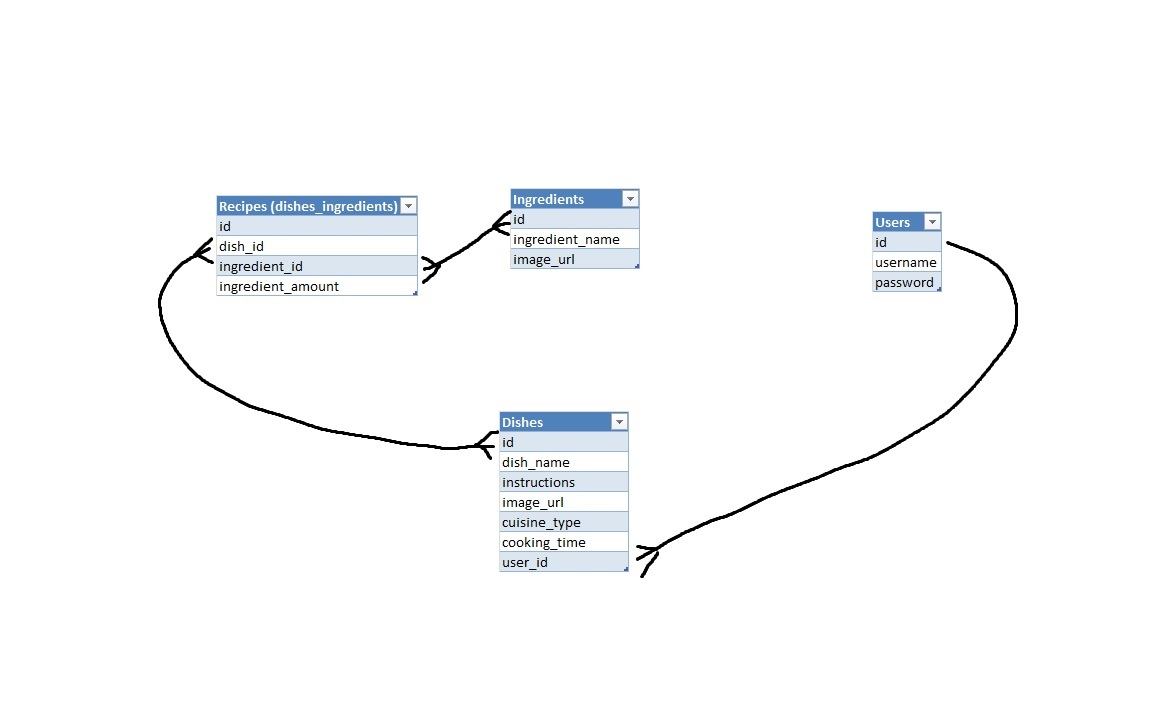
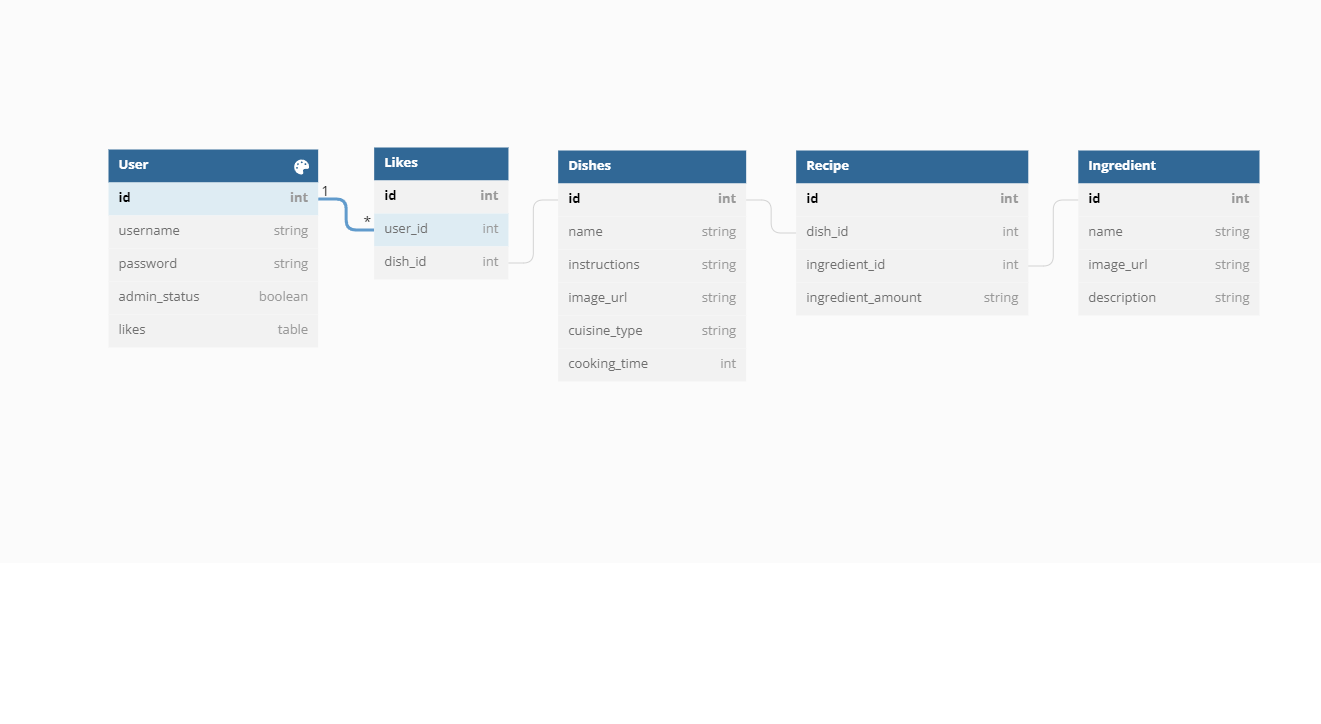
add search function, user admin status, and database update capability

diff --git a/templates/home.html b/templates/home.html
@@ -3,8 +3,16 @@
 
 <h1>Welcome to the Cooking App</h1>
 
-<a href="/dishes/all">View All Dishes</a>
-<a href="/ingredients/all">View All Ingredients</a>
+<a href="/dishes">View All Dishes</a>
+<a href="/ingredients">View All Ingredients</a>
 
+<form action="/dishes">
+    <input name="q" placeholder="Search Dishes" id="search-dish">
+    <button> Search </button>
+</form>
 
+<form action="/ingredients">
+    <input name="q" placeholder="Search Ingredients" id="search-ingredient">
+    <button> Search </button>
+</form>
 {% endblock %}

diff --git a/templates/users.html b/templates/users.html
@@ -1,0 +1,16 @@
+{% extends 'base.html' %}
+{% block content %}
+
+<h1>Users</h1>
+<ul>
+    {% for user in users %}
+    <li>
+        <form method="post" action="/users/promote/{{user.id}}">
+            {{user.username}} {{user.admin_status}}
+            <button>Promote</button>
+        </form>
+    </li>
+    {% endfor %}
+</ul>
+
+{% endblock %}

diff --git a/templates/base.html b/templates/base.html
@@ -14,8 +14,12 @@
     {% if not g.user %}
     <a href="/sign-up">Create Account</a>
     <a href="/login">Log In</a>
+
     {% else %}
     <a href="/my-recipes">Saved Recipes</a>
+    {% if g.user.admin_status %}
+    <a href="/users">Users</a>
+    {% endif %}
     <a href="/logout">Log out</a>
     {% endif %}
 

diff --git a/templates/ingredient.html b/templates/ingredient.html
@@ -2,7 +2,7 @@
 {% extends 'base.html' %}
 {% block content %}
 <h5>
-    <a href="/">Home</a> > <a href="/ingredients/all">Ingredient</a> > {{ingredient.name}}
+    <a href="/">Home</a> > <a href="/ingredients">Ingredient</a> > {{ingredient.name}}
 </h5>
 
 <h1>

diff --git a/templates/dish.html b/templates/dish.html
@@ -1,7 +1,7 @@
 {% extends 'base.html' %}
 {% block content %}
 <h5>
-    <a href="/">Home</a> > <a href="/dishes/all">Dish</a> > {{dish.name}}
+    <a href="/">Home</a> > <a href="/dishes">Dish</a> > {{dish.name}}
 </h5>
 <h1>
     {{dish.name}}

diff --git a/templates/all-dishes.html b/templates/all-dishes.html
@@ -3,7 +3,6 @@
 <ul>
     {% for dish in all_dishes %}
     <li>
-
         <h5>
             <a href="/dishes/{{dish.id}}">{{dish.name}}</a>
         </h5>

diff --git a/app.py b/app.py
@@ -43,7 +43,7 @@ def show_dish(id):
             .filter(Likes.user_id == g.user.id, Likes.dish_id == id)
             .one_or_none()
         )
-    # pdb.set_trace()
+
     return render_template(
         "dish.html",
         dish=dish,
@@ -52,11 +52,16 @@ def show_dish(id):
     )
 
 
-@app.route("/dishes/all")
+@app.route("/dishes")
 def show_all_dishes():
-    all_dishes = Dish.query.all()
+    search = request.args.get("q")
 
-    return render_template("all-dishes.html", all_dishes=all_dishes)
+    if not search:
+        dishes = Dish.query.all()
+    else:
+        dishes = Dish.query.filter(Dish.name.ilike(f"%{search}%")).all()
+
+    return render_template("all-dishes.html", all_dishes=dishes)
 
 
 @app.route("/ingredients/<int:id>")
@@ -64,17 +69,25 @@ def show_ingredient(id):
     ingredient = Ingredient.query.get_or_404(id)
 
     used_in = (
-        db.session.query(Dish).filter(Recipe.ingredient_id == 1).join(Recipe).all()
+        db.session.query(Dish).filter(Recipe.ingredient_id == id).join(Recipe).all()
     )
 
     return render_template("ingredient.html", ingredient=ingredient, used_in=used_in)
 
 
-@app.route("/ingredients/all")
+@app.route("/ingredients")
 def show_all_ingredients():
-    all_ingredients = Ingredient.query.all()
 
-    return render_template("all-ingredients.html", all_ingredients=all_ingredients)
+    search = request.args.get("q")
+
+    if not search:
+        ingredients = Ingredient.query.all()
+    else:
+        ingredients = Ingredient.query.filter(
+            Ingredient.name.ilike(f"%{search}%")
+        ).all()
+
+    return render_template("all-ingredients.html", all_ingredients=ingredients)
 
 
 @app.route("/sign-up", methods=["GET", "POST"])
@@ -199,3 +212,39 @@ def remove_recipe(id):
     db.session.commit()
 
     return redirect("/my-recipes")
+
+
+@app.route("/users")
+def view_users():
+
+    if not g.user.admin_status:
+        flash("Access unauthorized.", "danger")
+        return redirect("/")
+
+    users = User.query.all()
+    return render_template("users.html", users=users)
+
+
+@app.route("/users/promote/<int:id>", methods=["POST"])
+def promote(id):
+
+    if not g.user.admin_status:
+        flash("Access unauthorized.", "danger")
+        return redirect("/")
+
+    user = User.query.get(id)
+
+    user.admin_status = True
+    db.session.commit()
+
+    return redirect("/users")
+
+
+@app.route("/update")
+def update_db():
+    if not g.user.admin_status:
+        flash("Access unauthorized.", "danger")
+        return redirect("/")
+    g.user.update_db()
+    flash(f"Updated database!", "success")
+    return redirect("/")

diff --git a/update.py b/update.py
@@ -1,0 +1,77 @@
+import requests
+import json
+from models import db, Ingredient, Dish, Recipe
+
+# Ingredients data
+url = "https://www.themealdb.com/api/json/v1/1/list.php?i=list"
+r = requests.get(url)
+with open("update.json", "wb") as f:
+    f.write(r.content)
+
+f = open("update.json")
+ingredients_data = json.load(f)
+
+for i in ingredients_data["meals"]:
+    try:
+        ingredient = Ingredient(
+            id=i["idIngredient"],
+            name=i["strIngredient"],
+            description=i["strDescription"],
+        )
+        db.session.add(ingredient)
+        db.session.commit()
+    except:
+        db.session.rollback()
+        continue
+
+
+ALPHABET = "abcdefghijklmnopqrstuvwxyz"
+
+for letter in ALPHABET:
+    url = f"https://www.themealdb.com/api/json/v1/1/search.php?f={letter}"
+
+    r = requests.get(url)
+    with open("update.json", "wb") as f:
+        f.write(r.content)
+
+    f = open("update.json")
+    data = json.load(f)
+
+    # Dishes data
+    try:
+        for i in data["meals"]:
+            dish = Dish(
+                id=i["idMeal"],
+                name=i["strMeal"],
+                instructions=i["strInstructions"],
+                image_url=i["strMealThumb"],
+                cuisine_type=i["strArea"],
+                cooking_time=1,
+            )
+            db.session.add(dish)
+        db.session.commit()
+    except:
+        db.session.rollback()
+        continue
+
+    # Recipes data
+    for i in data["meals"]:
+        for j in range(1, 21):
+            try:
+                ing = Ingredient.query.filter(
+                    Ingredient.name.ilike(i["strIngredient" + str(j)])
+                ).one()
+
+                r = Recipe(
+                    dish_id=i["idMeal"],
+                    ingredient_id=ing.id,
+                    ingredient_amount=i["strMeasure" + str(j)],
+                )
+                db.session.add(r)
+                db.session.commit()
+            except:
+                db.session.rollback()
+                continue
+
+
+db.session.commit()

diff --git a/models.py b/models.py
@@ -1,3 +1,4 @@
+from cProfile import run
 from flask_sqlalchemy import SQLAlchemy
 from flask_bcrypt import Bcrypt
 
@@ -60,7 +61,7 @@ class User(db.Model):
     password = db.Column(db.Text, nullable=False)
     admin_status = db.Column(db.Boolean, default=False)
 
-    likes = db.relationship('Dish', secondary="likes")
+    likes = db.relationship("Dish", secondary="likes")
 
     @classmethod
     def signup(cls, username, password, admin_status=False):
@@ -71,11 +72,7 @@ class User(db.Model):
 
         hashed_pwd = bcrypt.generate_password_hash(password).decode("UTF-8")
 
-        user = User(
-            username=username,
-            password=hashed_pwd,
-            admin_status=admin_status
-        )
+        user = User(username=username, password=hashed_pwd, admin_status=admin_status)
 
         db.session.add(user)
         return user
@@ -99,6 +96,10 @@ class User(db.Model):
                 return user
 
         return False
+
+    @classmethod
+    def update_db(cls):
+        exec(open("update.py").read())
 
 
 class Likes(db.Model):

diff --git a/userflows.md b/userflows.md
@@ -1,0 +1,79 @@
+"/"
+Homepage
+displays all of the other routes, including search bars for ingredients or dishes
+
+
+"/dishes"
+Dishes
+displays all dishes in the database, or displays details of a single dish if appended with "/{id}"
+
+
+"/ingredients"
+Ingredients
+displays all ingredients in the database, or displays details of a single ingredient if appended with "/{id}"
+
+
+"/sign-up"
+Signup Page
+Guests can create an account and use it to save dishes for later
+
+
+"/login"
+Login Page
+Log in with credientials assigned when account was created
+
+
+"/my-recipes"
+Saved Recipes Page
+Display list of dishes saved while previously logged in
+
+
+"/dishes/{id}/save"
+Save Dish
+Add dish with id to list of saved recipes
+
+
+"/dishes/{id}/remove"
+Remove Dish
+Remove dish with id from list of saved recipes
+
+
+
+###For Admin Account Only:
+"/users"
+Display list of all users
+
+"/users/promote/{id}"
+Promote User
+Promote user with id to an admin account. Only admins can give other accounts admin status
+
+"/update
+Update Database
+Run script to gather JSON from API and update the database
+
+<!-- 
+Search meal by name
+www.themealdb.com/api/json/v1/1/search.php?s=Arrabiata
+
+List all meals by first letter
+www.themealdb.com/api/json/v1/1/search.php?f=a
+
+Lookup full meal details by id
+www.themealdb.com/api/json/v1/1/lookup.php?i=52772
+
+List all meal categories
+www.themealdb.com/api/json/v1/1/categories.php
+
+List all Categories, Area, Ingredients
+www.themealdb.com/api/json/v1/1/list.php?c=list
+www.themealdb.com/api/json/v1/1/list.php?a=list
+www.themealdb.com/api/json/v1/1/list.php?i=list
+
+Filter by main ingredient
+www.themealdb.com/api/json/v1/1/filter.php?i=chicken_breast
+
+Filter by Category
+www.themealdb.com/api/json/v1/1/filter.php?c=Seafood
+
+Filter by Area
+www.themealdb.com/api/json/v1/1/filter.php?a=Canadian -->

diff --git a/README.md b/README.md
@@ -1,16 +1,16 @@
-API URL
-https://www.themealdb.com/api.php?ref=apilist.fun
+To see how the app works:
+https://github.com/brifeng/capstone-1/blob/master/userflows.md
 
+API Homepage
+https://www.themealdb.com/api.php
+
+------------------------------------------------------------------------------------------
+
+Schema Design
+https://github.com/brifeng/capstone-1/blob/master/cooking_schema.jpg
+
+
+------------------------------------------------------------------------------------------
 
 Ideas:
 https://docs.google.com/document/d/1IJMT2OV6Vbugi4lWMARMZ5aCbV4zcAWZjuUVsM-R7lQ/edit
-
-
-Capstone Project
-
-For my project, I would like to make a cooking app using an API to gather recipes and information. It should have a library of all recipes, list ingredients needed for each recipe, and allow users to search recipes by ingredients used. The UI should be user friendly to allow the users to follow along while they cook.
-
-Alternative ideas:
-I will make a fun app that generates random facts about cats and shares it with the user. It would also have a section for viewing random pictures of cats. Authenticated users can submit new cat facts and pictures.
-
-Another project idea could be a meme generator app. The app would have a library of images and allow the user to add text to the image. Authenticated users could add new images to the meme library.
